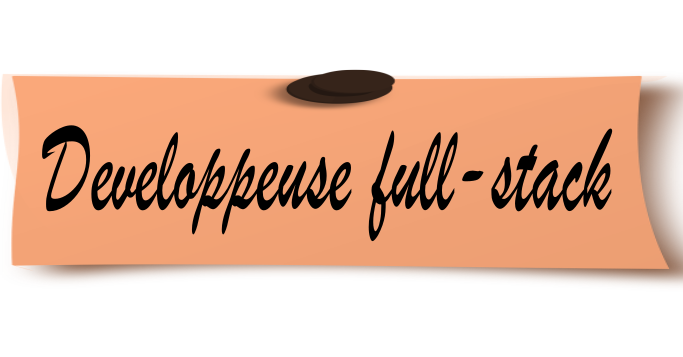
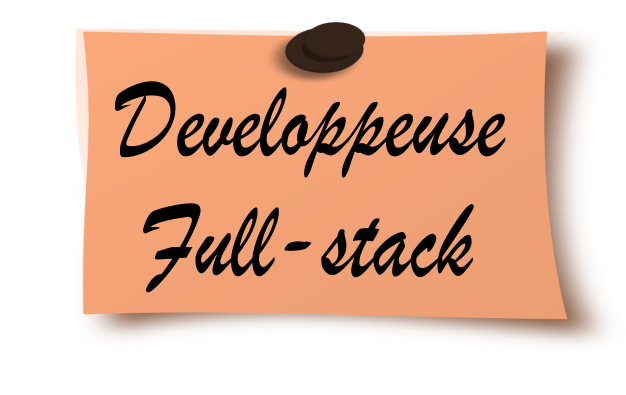
Dernier ajustement Accueil

diff --git a/src/assets/styles/Main/Accueil/Postites.css b/src/assets/styles/Main/Accueil/Postites.css
@@ -20,12 +20,12 @@
 
 .postit3 {
   width: 230px;
-  transform: translateY(-17px)translateX(-20px);
+  transform: translateY(-1px)translateX(-15px);
 }
 
 .postit4 {
   width: 155px;
-  transform: translateY(-15px) translateX(33px);
+  transform: translateY(-4px) translateX(33px);
 }
 
 .postit5 {
@@ -53,7 +53,7 @@
 
   .postit4 {
     width: 125px;
-    transform: translateY(-16px) translateX(35px);
+    transform: translateY(-5px) translateX(30px);
   }
 
   .postit5 {
@@ -76,16 +76,17 @@
 
   .postit3 {
     width: 170px;
-    transform: translateY(-10px) translateX(-28px);
+    transform: translateY(2px) translateX(-40px);
 }
 
   .postit4 {
     width: 110px;
-    transform: translateY(-10px) translateX(30px);
+    transform: translateY(-3px) translateX(2px);
   }
 
   .postit5 {
     width: 108px;
+    transform: translateY(7px) translateX(-20px);
   }
 }
 
@@ -107,34 +108,35 @@
 
   .postit4 {
     width: 100px;
-    transform: translateY(-10px) translateX(15px);
+    transform: translateY(-2px) translateX(-2px);
   }
 
   .postit5 {
     width: 103px;
-    transform: translateY(7px) translateX(-7px);
+    transform: translateY(7px) translateX(-15px);
   }
 }
 
 @media (max-width: 500px) {
 
   .postit1 {
-    width: 135px;
+    width: 127px;
     transform: translateY(-10px) translateX(25px);
   }
 
   .postit2-fr {
     width: 87px;
-    transform: translateY(18px) translateX(60px);
+    transform: translateY(21px) translateX(58px);
   }
 
   .postit3 {
     width: 135px;
+    transform: translateY(2px) translateX(-32px);
   }
 
   .postit4 {
     width: 97px;
-    transform: translateY(-7px) translateX(1px);
+    transform: translateY(-1px) translateX(-5px);
   }
 
   .postit5 {
@@ -172,8 +174,11 @@
   .postit1 {
     width: 115px;
   }
+  .postit2-fr {
+    transform: translateY(18px) translateX(49px);
+  }
   .postit4 {  
-    transform: translateY(-7px) translateX(-3px);
+    transform: translateY(-1px) translateX(-7px);
   }
 }
 
@@ -193,6 +198,7 @@
 
   .postit4 {
     width: 90px;
+    transform: translateY(-1px) translateX(-10px);
   }
 
   .postit5 {
